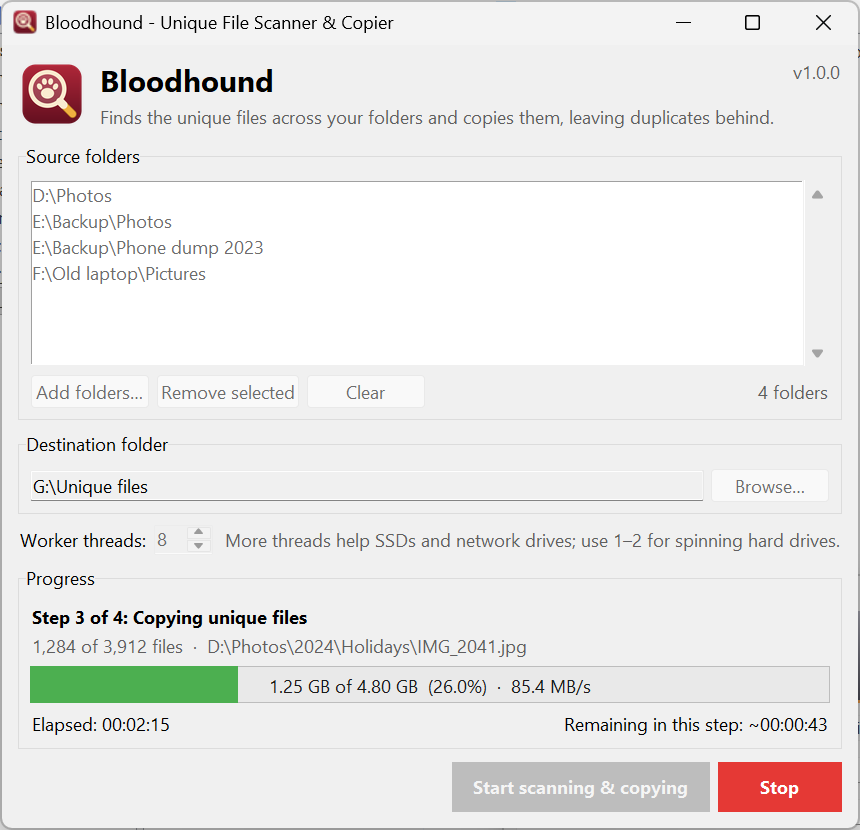
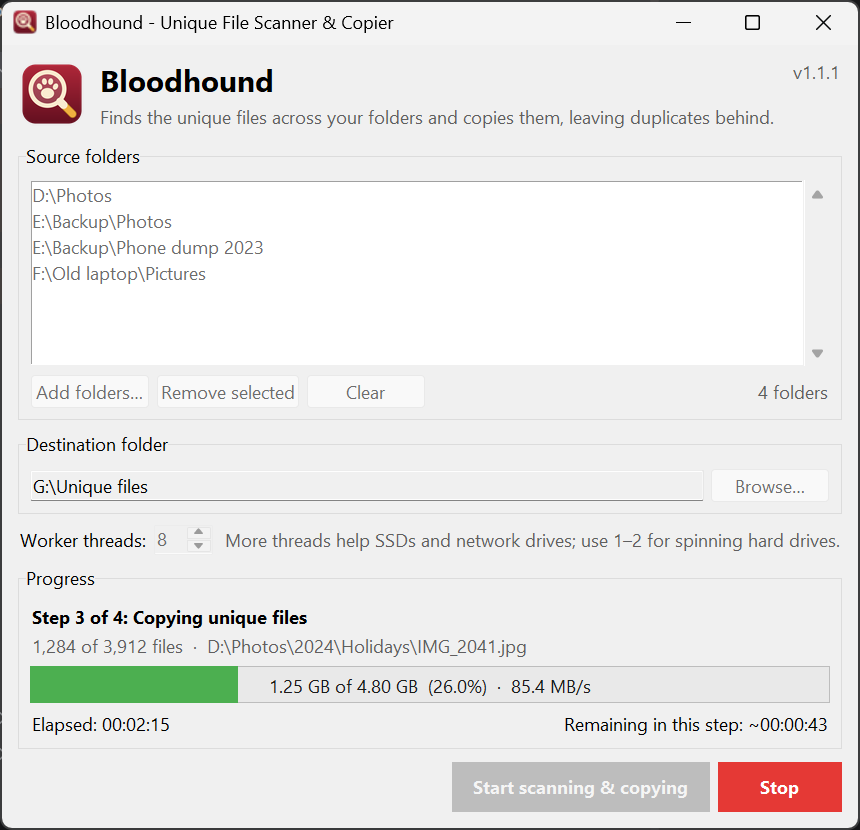
Release Bloodhound 1.1.1
Bump the version shown in the window and used for the package to 1.1.1,
add the 1.1.1 changelog entry (Path support, inspection cleanups) and
refresh the README screenshot.

diff --git a/bloodhound/__init__.py b/bloodhound/__init__.py
@@ -1,7 +1,7 @@
 """Bloodhound: find the unique files spread across many folders and copy them, leaving duplicates behind."""
 
 __app_name__ = "Bloodhound"
-__version__ = "1.1.0"
+__version__ = "1.1.1"
 __author__ = "Carlos Linares"
 
 __all__ = ["__app_name__", "__author__", "__version__"]

diff --git a/CHANGELOG.md b/CHANGELOG.md
@@ -4,6 +4,15 @@ All notable changes to this project are documented here. The format follows
 [Keep a Changelog](https://keepachangelog.com/en/1.1.0/) and the project uses
 [Semantic Versioning](https://semver.org/).
 
+## [1.1.1] - 2026-10-25
+
+### Changed
+
+- `DedupeJob` accepts `pathlib.Path` objects as well as strings for the source
+  and destination folders.
+- Code cleanups from a PyCharm inspection pass, with no change in behavior.
+- README header uses plain Markdown; tables in the docs are aligned.
+
 ## [1.1.0] - 2026-10-25
 
 ### Changed
